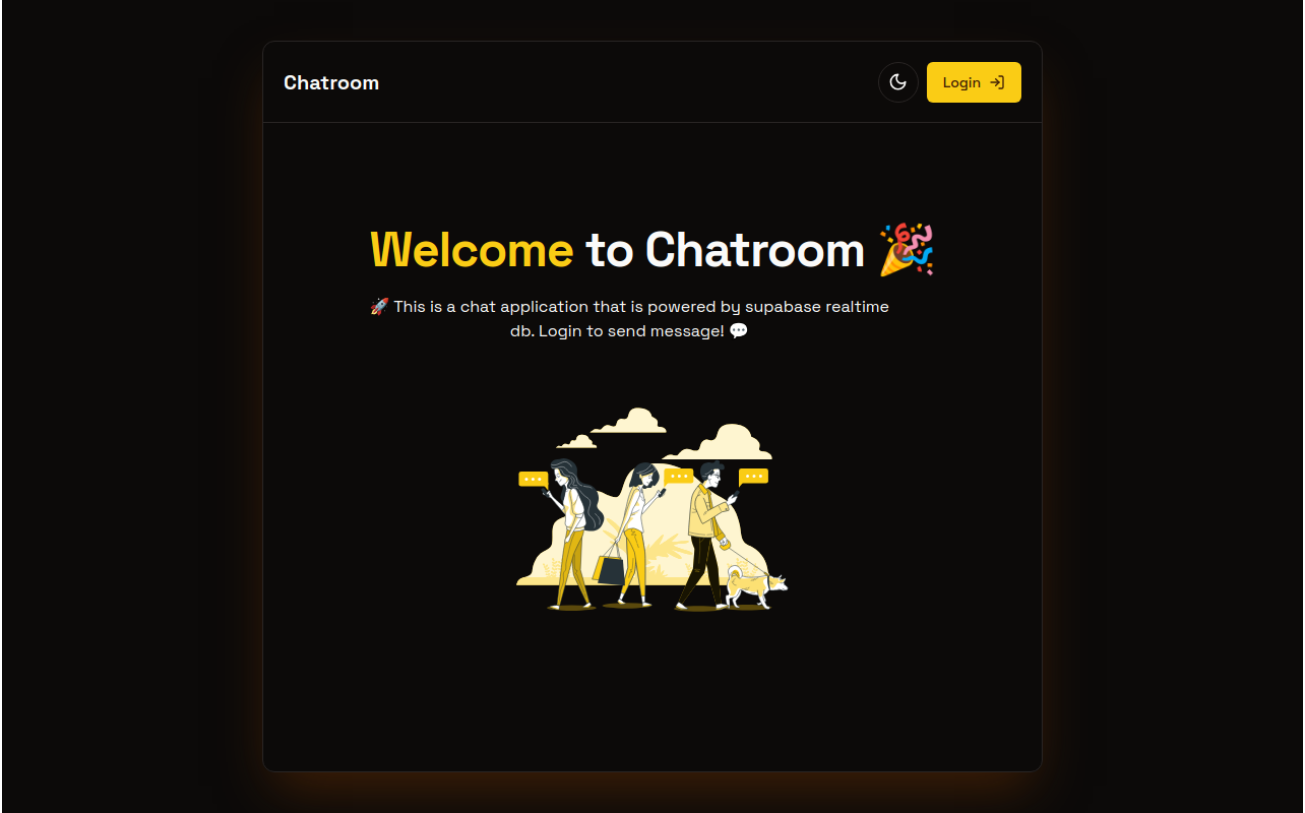
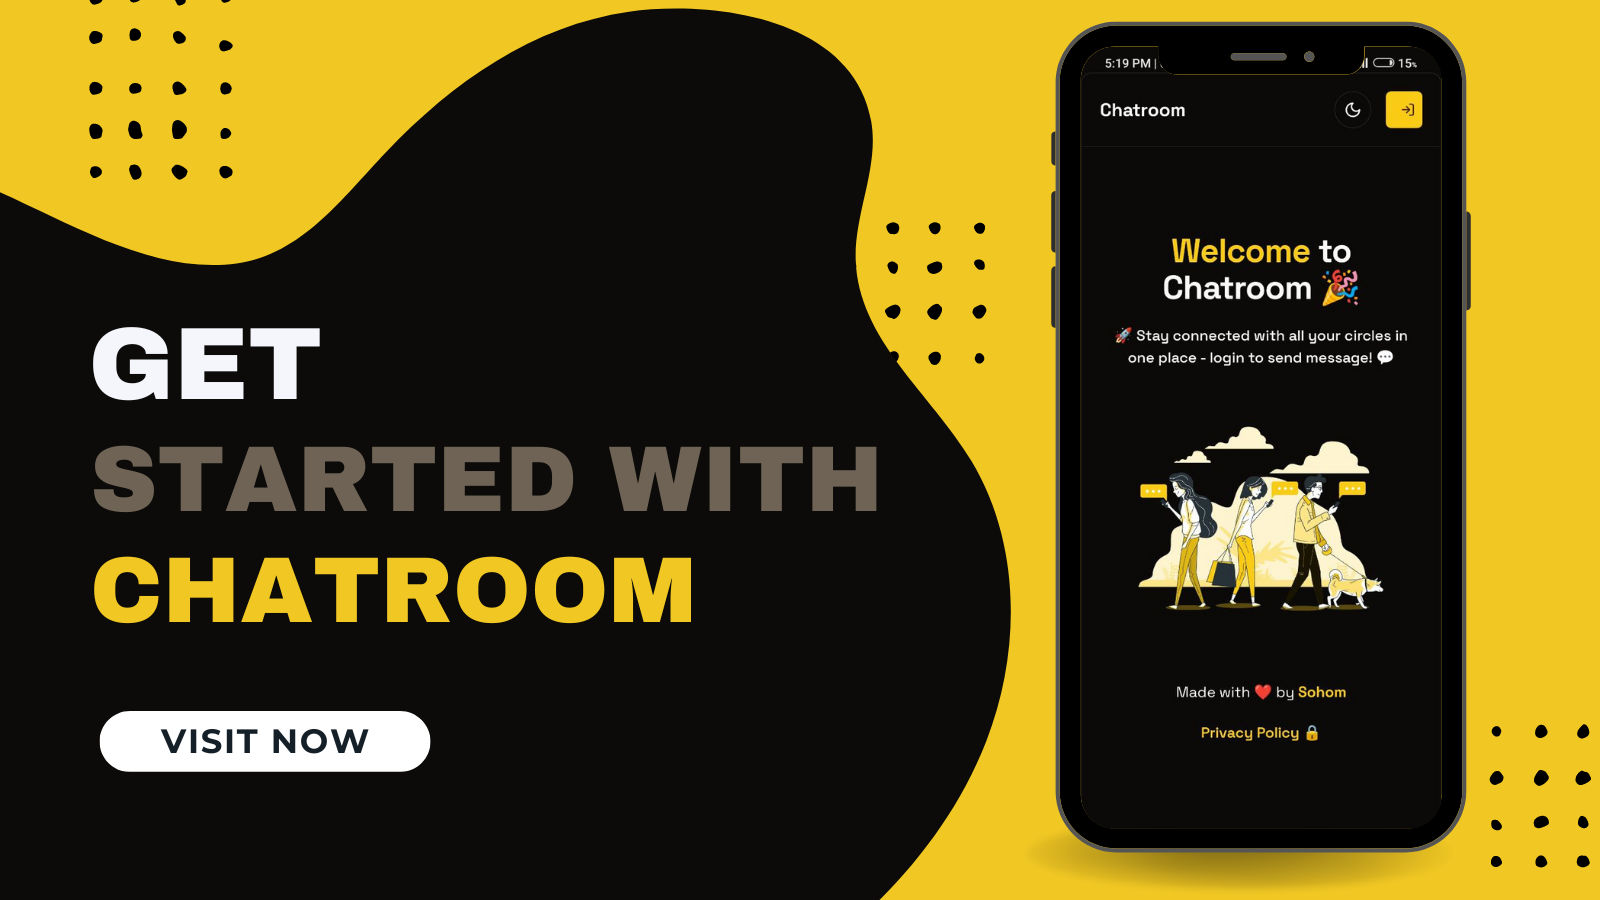
chore: updated og image & changed the metadata (description, URL)

diff --git a/app/layout.tsx b/app/layout.tsx
@@ -12,9 +12,8 @@ export const metadata: Metadata = {
     template: "%s | Chatroom",
     default: "Chatroom",
   },
-  description:
-    "This is a chat application that is powered by supabase realtime db. 💬🚀",
-  metadataBase: new URL("https://your-chatroom.vercel.app"),
+  description: "🚀 Stay connected with all your circles in one place. 💬",
+  metadataBase: new URL("https://newchatroom.vercel.app"),
   manifest: "/manifest.json",
 };
 
